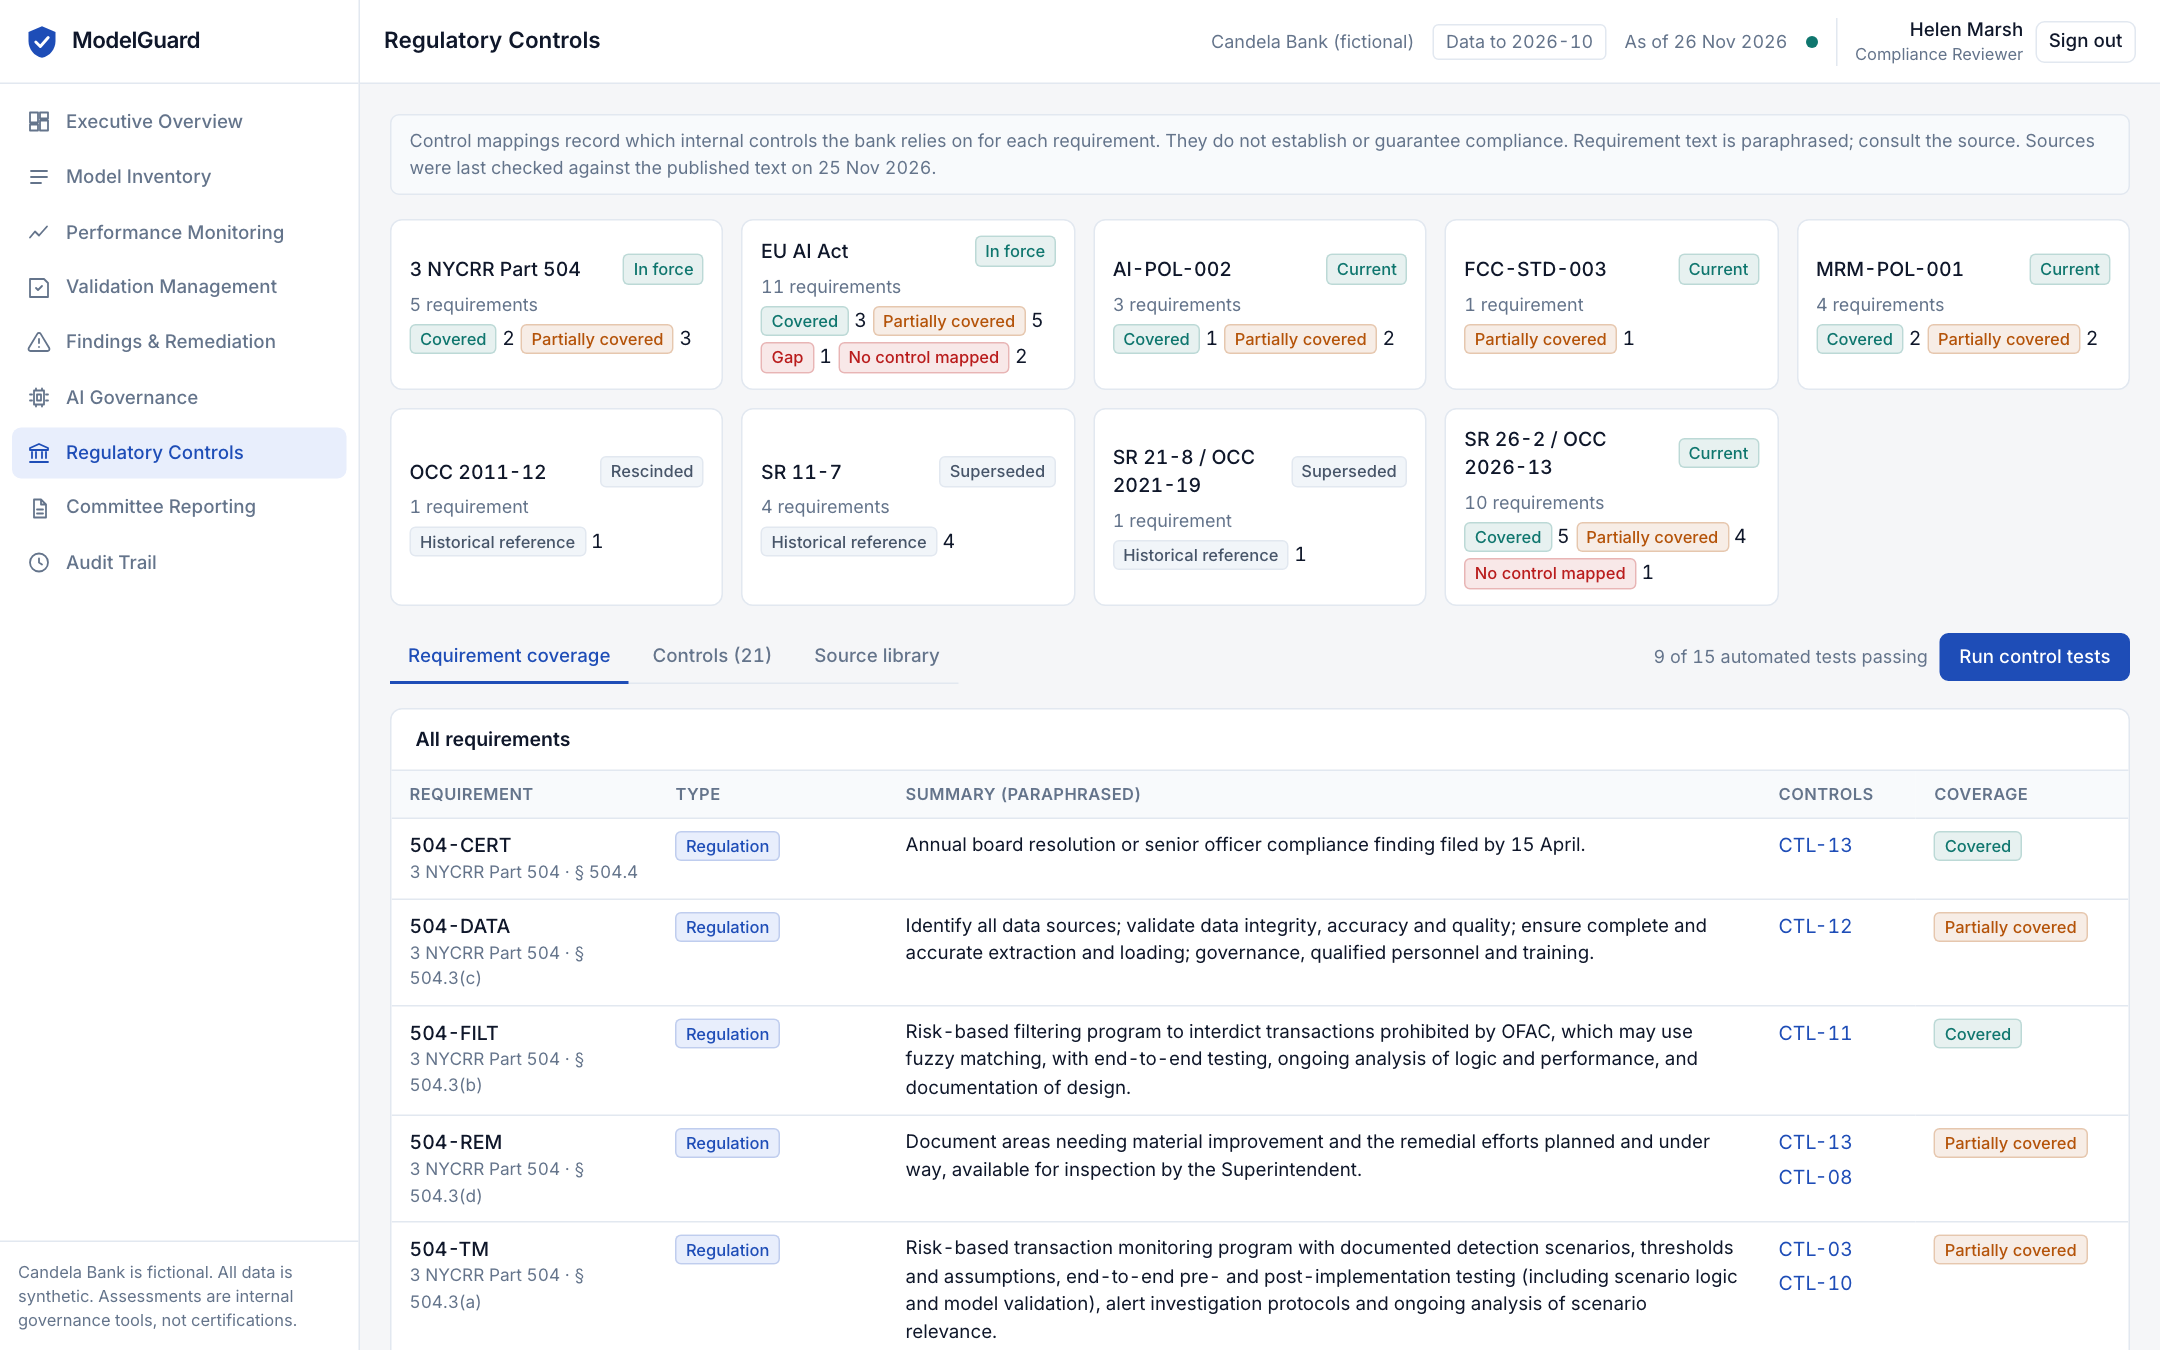
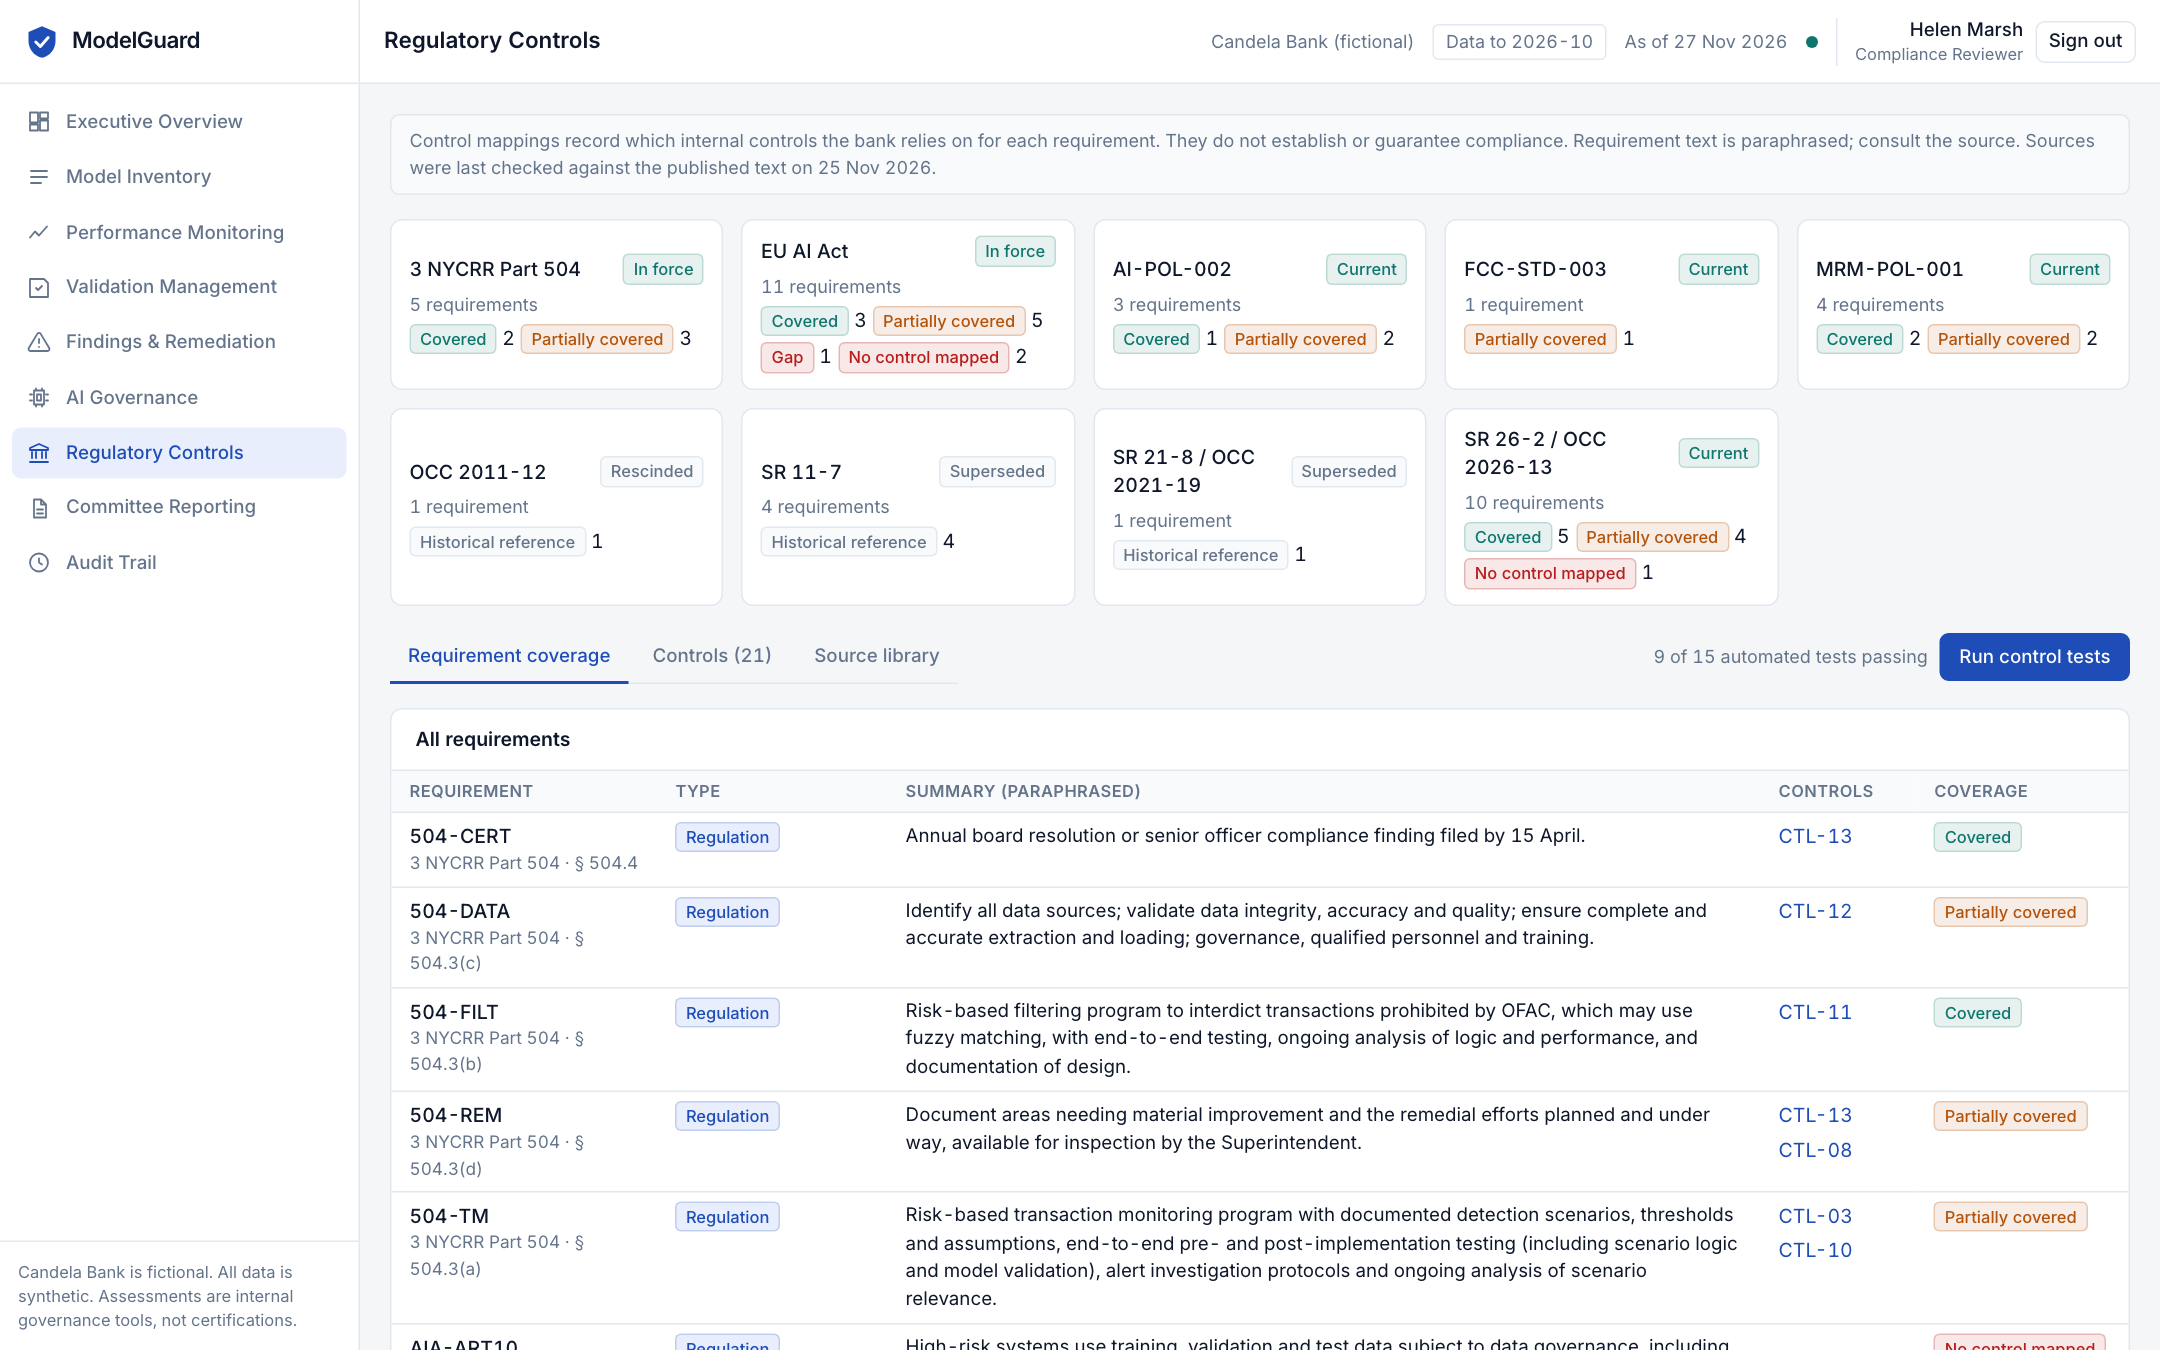
Align the frontend with the light enterprise theme
Chart series now use the blue family and neutral greys. Teal, amber, orange
and red only carry status meaning, and the off-palette violet and bright amber
are gone. Hard-coded slate classes use the theme tokens, buttons no longer
fade on hover, the loading spinner stops when reduced motion is requested,
and table rows are more compact. Screenshots, the README tour and the social
preview were recaptured from the seeded data.

diff --git a/frontend/src/pages/PerformanceMonitoring.tsx b/frontend/src/pages/PerformanceMonitoring.tsx
@@ -195,13 +195,13 @@ function TrendCharts({ data }: { data: any }) {
       { type: "scatter", mode: "lines", name: `${metricLabel[k]} breach`, x, y: x.map(() => last.breach_limit), line: { color, dash: "dash", width: 1 }, hoverinfo: "skip" },
     ];
   };
-  const palette = [COLORS.accent, COLORS.teal, "#7C3AED", COLORS.orange];
+  const palette = [COLORS.accent, COLORS.ink, COLORS.mid, COLORS.slate];
   const perf = [...perfKeys.map((k, i) => ({ type: "scatter", mode: "lines+markers", name: metricLabel[k], x, y: s[k].map((p: any) => p.value), line: { color: palette[i], width: 2 },
-    marker: { size: 6, color: s[k].map((p: any) => (p.status === "Breach" ? COLORS.red : p.status === "Warning" ? "#F59E0B" : palette[i])) } })), ...limitLines("recall", COLORS.red)];
+    marker: { size: 6, color: s[k].map((p: any) => (p.status === "Breach" ? COLORS.red : p.status === "Warning" ? COLORS.amber : palette[i])) } })), ...limitLines("recall", COLORS.red)];
   const psi = ["psi", "max_feature_psi", "dq_exception_rate"].filter((k) => s[k]).map((k, i) => ({ type: "scatter", mode: "lines+markers", name: metricLabel[k], x,
-    y: s[k].map((p: any) => p.value), line: { color: [COLORS.accent, COLORS.orange, "#7C3AED"][i], width: 2 }, yaxis: k === "dq_exception_rate" ? "y2" : "y" }));
+    y: s[k].map((p: any) => p.value), line: { color: [COLORS.accent, COLORS.mid, COLORS.ink][i], width: 2 }, yaxis: k === "dq_exception_rate" ? "y2" : "y" }));
   const shapes = [...shading(x, ref),
-    { type: "line", xref: "paper", x0: 0, x1: 1, y0: 0.1, y1: 0.1, line: { color: "#F59E0B", dash: "dot", width: 1 } },
+    { type: "line", xref: "paper", x0: 0, x1: 1, y0: 0.1, y1: 0.1, line: { color: COLORS.amber, dash: "dot", width: 1 } },
     { type: "line", xref: "paper", x0: 0, x1: 1, y0: 0.25, y1: 0.25, line: { color: COLORS.red, dash: "dash", width: 1 } }];
   return (
     <div className="grid gap-4 2xl:grid-cols-2">
@@ -230,7 +230,7 @@ function DriftView({ run }: { run: any }) {
       <div className="grid gap-4 2xl:grid-cols-2">
         <Panel title={`Score distribution, reference vs ${run.period}`} actions={<span className="text-[12px]">PSI <b>{dec(psiM?.value)}</b> · {psiM?.details?.band}</span>}>
           <Plot ariaLabel="Bar chart comparing reference and current score shares by decile bin" height={280} data={[
-            { type: "bar", name: "Reference", x: bins.map((b: any) => b.bin), y: bins.map((b: any) => b.expected_share), marker: { color: "#CBD5E1" },
+            { type: "bar", name: "Reference", x: bins.map((b: any) => b.bin), y: bins.map((b: any) => b.expected_share), marker: { color: COLORS.ref },
               hovertext: bins.map(label), hoverinfo: "text+y" },
             { type: "bar", name: run.period, x: bins.map((b: any) => b.bin), y: bins.map((b: any) => b.actual_share), marker: { color: COLORS.accent },
               hovertext: bins.map(label), hoverinfo: "text+y" }]}
@@ -239,8 +239,8 @@ function DriftView({ run }: { run: any }) {
         {fsel && (
           <Panel title={`Input feature: ${fsel.feature}`} actions={<span className="text-[12px]">{fsel.test} · PSI <b>{dec(fsel.psi)}</b> · <StatusBadge s={fsel.level === "Stable" ? "Within limits" : fsel.level === "Moderate" ? "Warning" : "Breach"} /></span>}>
             <Plot ariaLabel={`Bar chart comparing reference and current distribution of ${fsel.feature}`} height={280} data={[
-              { type: "bar", name: "Reference", x: fsel.bins.map((b: any) => (fsel.feature_type === "numeric" ? `Bin ${b.bin}` : b.bin)), y: fsel.bins.map((b: any) => b.expected_share), marker: { color: "#CBD5E1" } },
-              { type: "bar", name: run.period, x: fsel.bins.map((b: any) => (fsel.feature_type === "numeric" ? `Bin ${b.bin}` : b.bin)), y: fsel.bins.map((b: any) => b.actual_share), marker: { color: COLORS.orange } }]}
+              { type: "bar", name: "Reference", x: fsel.bins.map((b: any) => (fsel.feature_type === "numeric" ? `Bin ${b.bin}` : b.bin)), y: fsel.bins.map((b: any) => b.expected_share), marker: { color: COLORS.ref } },
+              { type: "bar", name: run.period, x: fsel.bins.map((b: any) => (fsel.feature_type === "numeric" ? `Bin ${b.bin}` : b.bin)), y: fsel.bins.map((b: any) => b.actual_share), marker: { color: COLORS.accent } }]}
               layout={{ barmode: "group", yaxis: { tickformat: ".0%", gridcolor: "#EEF2F7" } }} />
           </Panel>)}
       </div>

diff --git a/frontend/src/components/ui/index.tsx b/frontend/src/components/ui/index.tsx
@@ -9,7 +9,7 @@ const TONES: Record<Tone, string> = {
   amber: "bg-warn/10 text-warn border-warn/25",
   orange: "bg-high/10 text-high border-high/25",
   red: "bg-bad/10 text-bad border-bad/25",
-  slate: "bg-slate-100 text-slate-600 border-slate-200",
+  slate: "bg-sunken text-muted border-line",
 };
 
 export function Badge({ tone = "neutral", children, title }: { tone?: Tone; children: ReactNode; title?: string }) {
@@ -49,7 +49,7 @@ export const StatusBadge = ({ s }: { s?: string | null }) =>
   s ? <Badge tone={STATUS[s] ?? "neutral"}>{s}</Badge> : <span className="text-muted">–</span>;
 
 export function Dot({ tone = "neutral" }: { tone?: Tone }) {
-  const c = { neutral: "bg-muted", blue: "bg-accent", green: "bg-ok", amber: "bg-warn", orange: "bg-high", red: "bg-bad", slate: "bg-slate-400" }[tone];
+  const c = { neutral: "bg-muted", blue: "bg-accent", green: "bg-ok", amber: "bg-warn", orange: "bg-high", red: "bg-bad", slate: "bg-muted/50" }[tone];
   return <span className={`inline-block h-1.5 w-1.5 rounded-full ${c}`} />;
 }
 
@@ -101,7 +101,7 @@ export function Tabs({ tabs, value, onChange }: { tabs: { id: string; label: Rea
 export function Spinner({ label = "Loading" }: { label?: string }) {
   return (
     <div className="flex items-center gap-2 p-6 text-muted" role="status">
-      <span className="h-3.5 w-3.5 animate-spin rounded-full border-2 border-line border-t-accent" />
+      <span className="h-3.5 w-3.5 animate-spin rounded-full motion-reduce:animate-none border-2 border-line border-t-accent" />
       {label}
     </div>
   );
@@ -137,7 +137,7 @@ export function Drawer({ open, onClose, title, children, width = "max-w-3xl" }:
   if (!open) return null;
   return (
     <div className="fixed inset-0 z-40 flex justify-end">
-      <div className="absolute inset-0 bg-slate-900/25" onClick={onClose} />
+      <div className="absolute inset-0 bg-ink/25" onClick={onClose} />
       <aside role="dialog" aria-modal="true" className={`relative flex h-full w-full ${width} flex-col bg-surface shadow-xl`}>
         <header className="flex items-start justify-between gap-4 border-b border-line px-5 py-3">
           <div className="min-w-0 flex-1">{title}</div>
@@ -154,7 +154,7 @@ export function Modal({ open, onClose, title, children, footer }:
   if (!open) return null;
   return (
     <div className="fixed inset-0 z-50 flex items-center justify-center p-4">
-      <div className="absolute inset-0 bg-slate-900/30" onClick={onClose} />
+      <div className="absolute inset-0 bg-ink/30" onClick={onClose} />
       <div role="dialog" aria-modal="true" className="relative w-full max-w-lg rounded-lg bg-surface shadow-xl">
         <div className="border-b border-line px-5 py-3 text-[14px] font-semibold">{title}</div>
         <div className="max-h-[70vh] space-y-3 overflow-y-auto px-5 py-4">{children}</div>

diff --git a/frontend/src/index.css b/frontend/src/index.css
@@ -2,7 +2,8 @@
 @tailwind components;
 @tailwind utilities;
 
-/* Design tokens. Light enterprise theme in the portfolio's blue family. Swap these values to retheme. */
+/* Design tokens for the light enterprise theme: white and neutral surfaces, a blue accent, muted teal for good status,
+   compact tables and no decorative motion. Swap these values to retheme. */
 :root {
   --bg: 245 246 248;
   --surface: 255 255 255;
@@ -30,15 +31,15 @@ body {
   .panel { @apply min-w-0 bg-surface border border-line rounded-lg; }
   .panel-h { @apply flex items-center justify-between gap-3 px-4 py-2.5 border-b border-line; }
   .panel-t { @apply text-[13px] font-semibold text-ink; }
-  .btn { @apply inline-flex items-center gap-1.5 rounded-md px-3 h-8 text-[12.5px] font-medium border transition-colors disabled:opacity-50 disabled:cursor-not-allowed; }
+  .btn { @apply inline-flex items-center gap-1.5 rounded-md px-3 h-8 text-[12.5px] font-medium border disabled:opacity-50 disabled:cursor-not-allowed; }
   .btn-primary { @apply btn bg-accent border-accent text-white hover:bg-accent/90; }
   .btn-ghost { @apply btn bg-surface border-line text-ink hover:bg-sunken; }
   .btn-danger { @apply btn bg-surface border-bad/40 text-bad hover:bg-bad/5; }
   .input { @apply h-8 w-full rounded-md border border-line bg-surface px-2.5 text-[13px] placeholder:text-muted/70 focus:border-accent focus:outline-none; }
   .textarea { @apply w-full rounded-md border border-line bg-surface px-2.5 py-1.5 text-[13px] focus:border-accent focus:outline-none; }
   .label { @apply block text-xxs font-medium uppercase tracking-wide text-muted mb-1; }
-  .th { @apply sticky top-0 z-10 bg-sunken text-left text-xxs font-semibold uppercase tracking-wide text-muted px-3 py-2 border-b border-line whitespace-nowrap; }
-  .td { @apply px-3 py-2 border-b border-line align-top; }
+  .th { @apply sticky top-0 z-10 bg-sunken text-left text-xxs font-semibold uppercase tracking-wide text-muted px-3 py-1.5 border-b border-line whitespace-nowrap; }
+  .td { @apply px-3 py-1.5 border-b border-line align-top; }
   .tr-click { @apply cursor-pointer hover:bg-accent-soft/50; }
   .kv-k { @apply text-xxs uppercase tracking-wide text-muted; }
   .kv-v { @apply text-[13px] text-ink; }

diff --git a/frontend/src/pages/FindingsRemediation.tsx b/frontend/src/pages/FindingsRemediation.tsx
@@ -40,12 +40,12 @@ export default function FindingsRemediation() {
         <div className="grid gap-4 xl:grid-cols-2">
           <Panel title="Open findings by days past target">
             <Plot ariaLabel="Bar chart of open findings by aging bucket" height={220} data={[{ type: "bar", x: Object.keys(s.aging), y: Object.values(s.aging),
-              marker: { color: [COLORS.teal, "#F59E0B", COLORS.orange, COLORS.red] } }]} layout={{ yaxis: { dtick: 1, gridcolor: "#EEF2F7" } }} />
+              marker: { color: [COLORS.teal, COLORS.amber, COLORS.orange, COLORS.red] } }]} layout={{ yaxis: { dtick: 1, gridcolor: "#EEF2F7" } }} />
           </Panel>
           <Panel title="Findings by severity and status">
             <Plot ariaLabel="Stacked bar chart of findings by severity and status" height={220}
               data={s.statuses.map((st: string, i: number) => ({ type: "bar", name: st, x: s.severities, y: s.severities.map((sv: string) => s.by_severity_status[sv]?.[st] ?? 0),
-                marker: { color: [COLORS.red, "#F59E0B", COLORS.accent, "#7C3AED", COLORS.teal, COLORS.slate][i] } }))}
+                marker: { color: [COLORS.red, COLORS.amber, COLORS.accent, COLORS.light, COLORS.teal, COLORS.slate][i] } }))}
               layout={{ barmode: "stack", yaxis: { dtick: 2, gridcolor: "#EEF2F7" } }} />
           </Panel>
         </div>)}

diff --git a/frontend/src/pages/ExecutiveOverview.tsx b/frontend/src/pages/ExecutiveOverview.tsx
@@ -25,7 +25,7 @@ export default function ExecutiveOverview() {
       breaches: [
         { type: "bar", name: "Critical", x, y: sev("Critical"), marker: { color: COLORS.red } },
         { type: "bar", name: "High", x, y: sev("High"), marker: { color: COLORS.orange } },
-        { type: "bar", name: "Medium", x, y: sev("Medium"), marker: { color: "#F59E0B" } },
+        { type: "bar", name: "Medium", x, y: sev("Medium"), marker: { color: COLORS.amber } },
       ],
       findings: [
         { type: "scatter", mode: "lines+markers", name: "Open", x, y: ps.map((p) => p.open_findings), line: { color: COLORS.accent } },
@@ -37,7 +37,7 @@ export default function ExecutiveOverview() {
       ],
       validations: ["Approved", "Conditionally Approved", "Rejected"].map((s, i) => ({
         type: "bar", name: s, x: quarters, y: quarters.map((qq) => q4[qq][s] ?? 0),
-        marker: { color: [COLORS.teal, "#F59E0B", COLORS.red][i] },
+        marker: { color: [COLORS.teal, COLORS.amber, COLORS.red][i] },
       })),
       shapes: shade, annotations: annot,
     };

diff --git a/frontend/src/pages/AIGovernance.tsx b/frontend/src/pages/AIGovernance.tsx
@@ -251,7 +251,7 @@ function BiasTab({ system, canRun, onChange }: { system: any; canRun: boolean; o
         <Panel title={`Adverse outcome rate by ${t.attribute}`}>
           <Plot ariaLabel="Bar chart of adverse outcome and false positive rates by group" height={240} data={[
             { type: "bar", name: "Adverse outcome rate", x: t.groups.map((g: any) => g.group), y: t.groups.map((g: any) => g.adverse_rate), marker: { color: COLORS.accent } },
-            { type: "bar", name: "False positive rate", x: t.groups.map((g: any) => g.group), y: t.groups.map((g: any) => g.false_positive_rate), marker: { color: COLORS.orange } }]}
+            { type: "bar", name: "False positive rate", x: t.groups.map((g: any) => g.group), y: t.groups.map((g: any) => g.false_positive_rate), marker: { color: COLORS.light } }]}
             layout={{ barmode: "group", yaxis: { tickformat: ".1%", gridcolor: "#EEF2F7" } }} />
         </Panel>
         <Panel bodyClass="">

diff --git a/frontend/src/components/charts/Plot.tsx b/frontend/src/components/charts/Plot.tsx
@@ -4,7 +4,11 @@ import { useEffect, useRef } from "react";
 let plotly: Promise<any> | null = null;
 const load = () => (plotly ??= import("plotly.js-dist-min").then((m: any) => m.default ?? m));
 
-export const COLORS = { accent: "#1E4DB7", teal: "#0F766E", amber: "#B45309", orange: "#EA580C", red: "#B91C1C", slate: "#94A3B8", light: "#93C5FD" };
+// Data series use the blue family and neutral greys. Teal, amber, orange and red only carry status meaning.
+export const COLORS = {
+  accent: "#1E4DB7", mid: "#60A5FA", light: "#93C5FD", ink: "#334155", slate: "#94A3B8", ref: "#CBD5E1",
+  teal: "#0F766E", amber: "#B45309", orange: "#EA580C", red: "#B91C1C",
+};
 
 export function Plot({ data, layout, height = 260, ariaLabel }: { data: any[]; layout?: any; height?: number; ariaLabel: string }) {
   const ref = useRef<HTMLDivElement>(null);

diff --git a/frontend/src/components/layout/AppShell.tsx b/frontend/src/components/layout/AppShell.tsx
@@ -58,7 +58,7 @@ export default function AppShell() {
       </aside>
       {open && (
         <div className="fixed inset-0 z-40 lg:hidden">
-          <div className="absolute inset-0 bg-slate-900/30" onClick={() => setOpen(false)} />
+          <div className="absolute inset-0 bg-ink/30" onClick={() => setOpen(false)} />
           <aside className="relative h-full w-64 bg-surface shadow-xl">
             <div className="flex h-14 items-center border-b border-line px-4"><Logo /></div>{nav}
           </aside>
